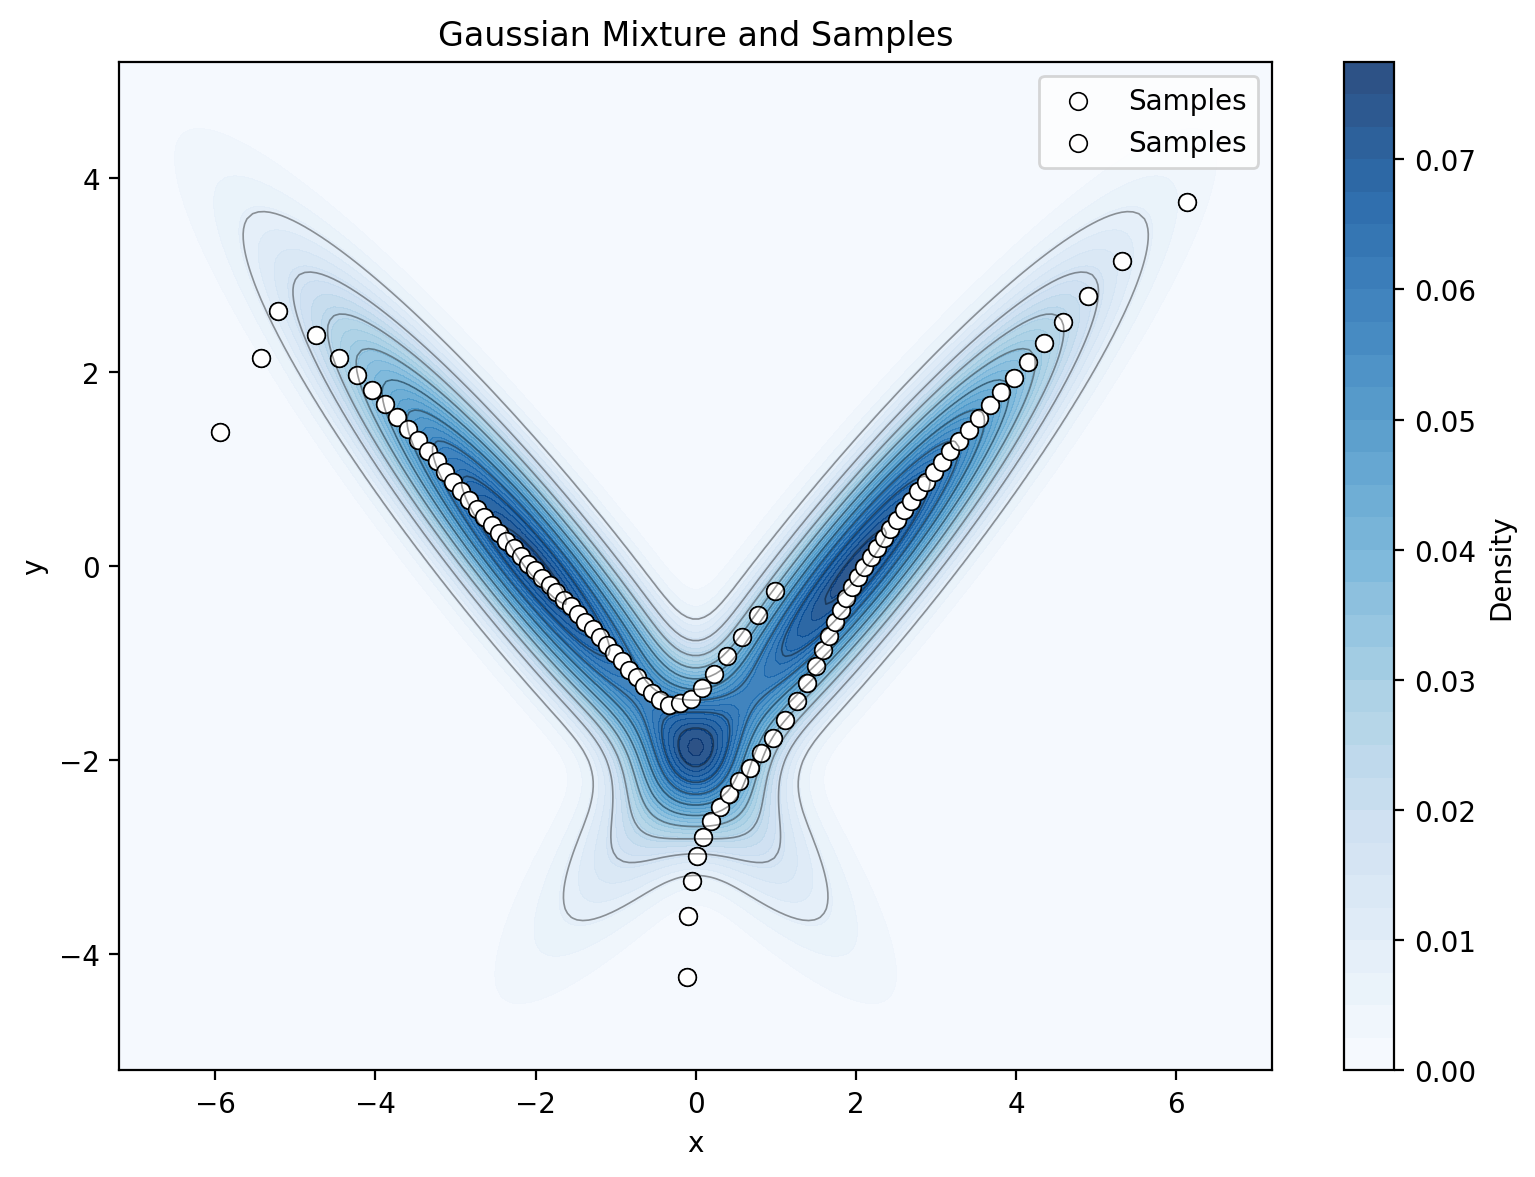
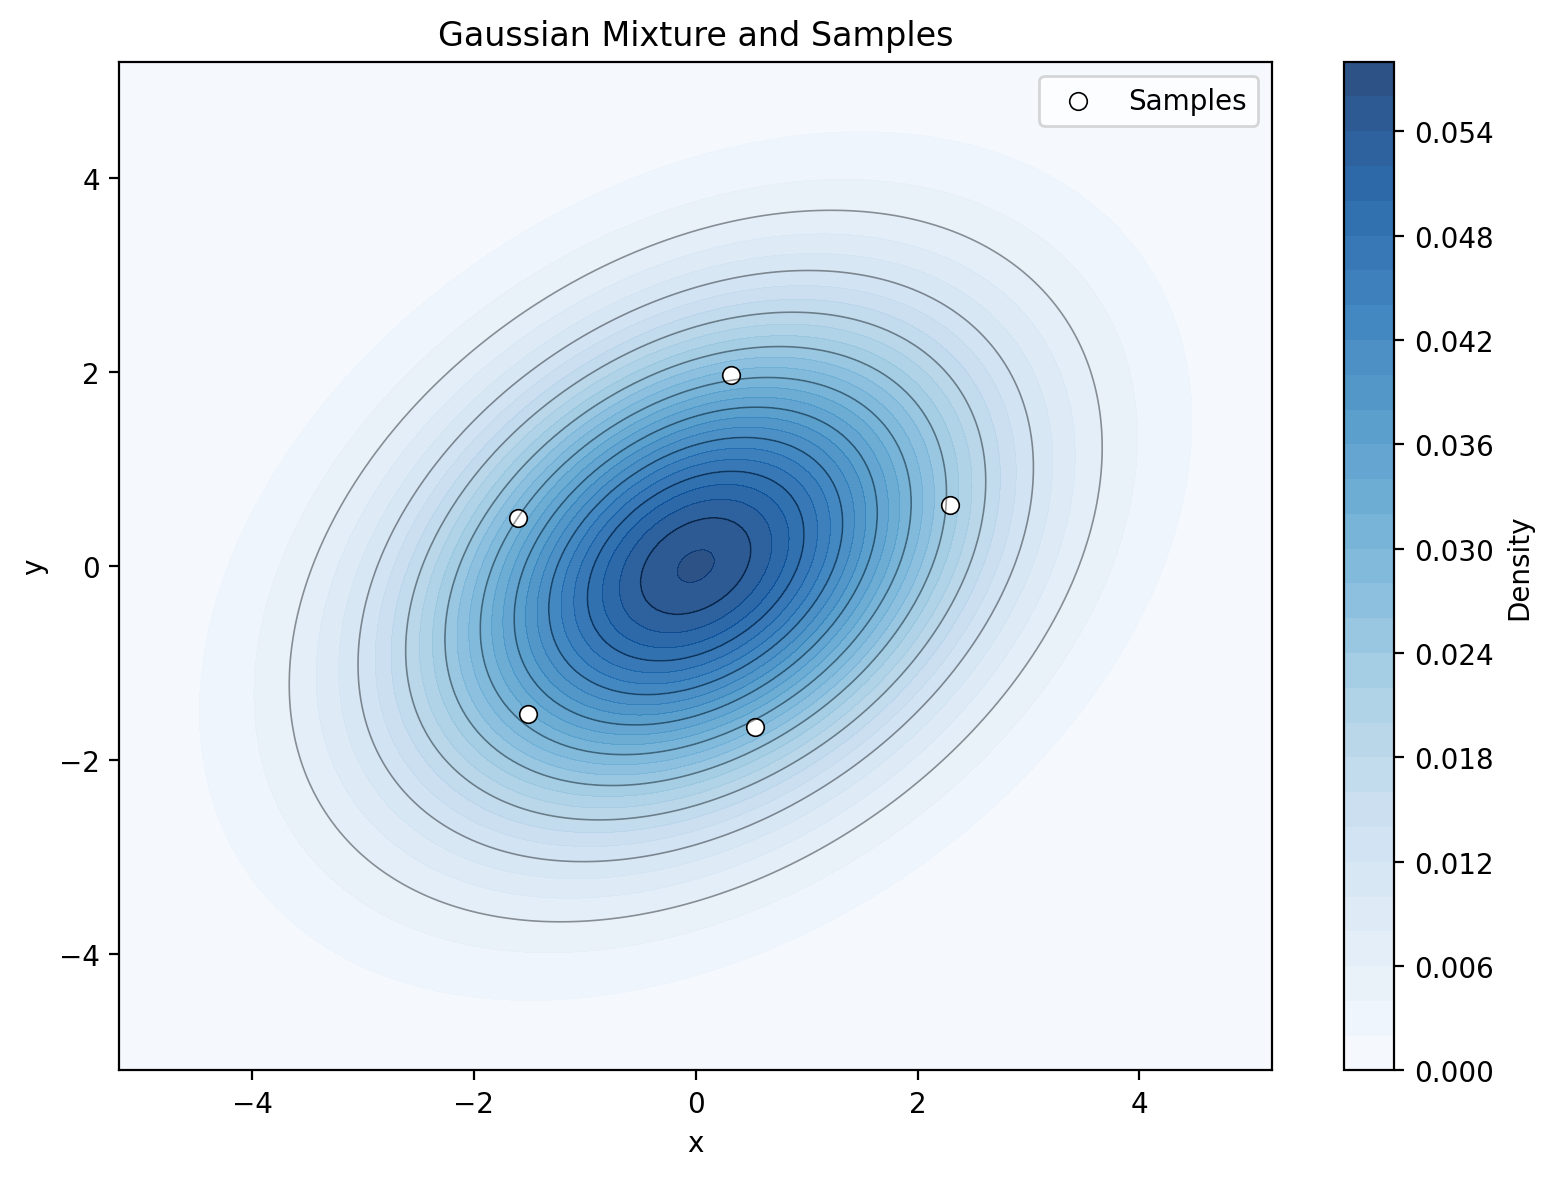
added jitter to mean sampling

diff --git a/examples/ut_example.py b/examples/ut_example.py
@@ -1,0 +1,119 @@
+import torch
+import matplotlib.pyplot as plt
+import numpy as np
+from matplotlib.patches import Ellipse
+
+from pcd_sampling_py.sampling_utils import reduce_gm, sample_ut
+
+
+"""
+Plot a 2D Gaussian Mixture with Unscented Transform sigma points
+and an ellipse of the moment-matched (reduced) Gaussian.
+"""
+
+
+def covariance_ellipse(mean, cov, n_std=2.0, **kwargs):
+    """Return a matplotlib Ellipse patch for a 2D Gaussian."""
+    vals, vecs = np.linalg.eigh(cov)
+    order = vals.argsort()[::-1]
+    vals, vecs = vals[order], vecs[:, order]
+    angle = np.degrees(np.arctan2(*vecs[:, 0][::-1]))
+    width, height = 2 * n_std * np.sqrt(vals)
+    return Ellipse(xy=mean, width=width, height=height, angle=angle, **kwargs)
+
+
+def plot_gm_and_ut(
+    weights: torch.Tensor,
+    means: torch.Tensor,
+    covariances: torch.Tensor,
+    grid_size: int = 200,
+    save_path: str | None = None,
+    show: bool = True,
+):
+    weights_f = weights.to(dtype=torch.float32)
+    means_f = means.to(dtype=torch.float32)
+    covs_f = covariances.to(dtype=torch.float32)
+
+    # --- Reduced Gaussian & UT sigma points ---
+    red_mean, red_cov = reduce_gm(weights_f, means_f, covs_f)
+    sigma_pts = sample_ut(red_mean, red_cov)  # (2n+1, 2)
+
+    # --- Grid for density ---
+    diag_vars = torch.diagonal(covs_f, dim1=-2, dim2=-1)
+    stds = torch.sqrt(diag_vars.clamp(min=1e-6))
+    mins = (means_f - 4 * stds).min(0).values
+    maxs = (means_f + 4 * stds).max(0).values
+
+    xs = torch.linspace(mins[0].item(), maxs[0].item(), grid_size)
+    ys = torch.linspace(mins[1].item(), maxs[1].item(), grid_size)
+    xx, yy = torch.meshgrid(xs, ys, indexing="ij")
+    grid = torch.stack([xx, yy], dim=-1).reshape(-1, 2)
+
+    log_probs = []
+    for w, m, c in zip(weights_f, means_f, covs_f):
+        mv = torch.distributions.MultivariateNormal(m, covariance_matrix=c)
+        log_probs.append(torch.log(w) + mv.log_prob(grid))
+    density = torch.exp(torch.logsumexp(torch.stack(log_probs), 0))
+    density = density.reshape(grid_size, grid_size).cpu().numpy()
+
+    xx_np = xx.cpu().numpy()
+    yy_np = yy.cpu().numpy()
+    sigma_np = sigma_pts.detach().cpu().numpy()
+    red_mean_np = red_mean.cpu().numpy()
+    red_cov_np = red_cov.cpu().numpy()
+
+    # --- Plot ---
+    fig, ax = plt.subplots(figsize=(8, 6))
+
+    contour = ax.contourf(xx_np, yy_np, density, levels=30, cmap="Blues", alpha=0.85)
+    ax.contour(xx_np, yy_np, density, levels=10, colors="black", linewidths=0.6, alpha=0.4)
+    plt.colorbar(contour, ax=ax, label="Density")
+
+    # Reduced-GM ellipse 2σ)
+    for n_std, alpha in [(2.0, 0.4)]:
+        ell = covariance_ellipse(
+            red_mean_np, red_cov_np, n_std=n_std,
+            edgecolor="black", facecolor="none",
+            linewidth=2.0, linestyle="--", alpha=alpha,
+            label=f"Reduced GM {int(n_std)}σ ellipse" if n_std == 2.0 else None,
+            zorder=3,
+        )
+        ax.add_patch(ell)
+
+    # Reduced-GM mean
+    # ax.scatter(*red_mean_np, c="darkorange", s=80, zorder=5,
+    #            edgecolors="black", linewidths=0.8, label="Reduced GM mean")
+
+    # UT sigma points
+    ax.scatter(sigma_np[:, 0], sigma_np[:, 1],
+               c="white", s=40, zorder=5,
+               edgecolors="black", linewidths=0.6, label="UT sigma points")
+
+    ax.set_xlabel("x")
+    ax.set_ylabel("y")
+    ax.set_title("Gaussian Mixture — Unscented Transform")
+    ax.legend(loc="upper right")
+    plt.tight_layout()
+
+    if save_path:
+        plt.savefig(save_path, dpi=200, bbox_inches="tight")
+        print(f"Saved to {save_path}")
+    if show:
+        plt.show()
+    plt.close()
+
+
+if __name__ == "__main__":
+    torch.set_default_device("cpu")
+
+    weights = torch.tensor([0.5, 0.5])
+    means = torch.tensor([[2.0, 0.0], [-2.0, 0.0]])
+    covariances = torch.tensor([[[3.0, 2.8], [2.8, 3.0]], [[3.0, -2.8], [-2.8, 3.0]]])
+    
+
+    with torch.no_grad():
+        plot_gm_and_ut(
+            weights, means, covariances,
+            save_path="examples/ut_example.png",
+            show=True,
+        )

diff --git a/examples/example.py b/examples/example.py
@@ -3,10 +3,11 @@ import time
 import torch
 import matplotlib.pyplot as plt
 
-from benchmarking.cvm import sample_unit_vectors
+# from benchmarking.cvm import sample_unit_vectors
 from pcd_sampling_py import sampler
 from pcd_sampling_py.models import PCDSamplerConfig
 from pcd_sampling_py.sampler import PCDSampler
+from pcd_sampling_py.sampling_utils import sample_ut
 
 """
 A simple example of a 2 D Gaussian mixture
@@ -14,18 +15,23 @@ A simple example of a 2 D Gaussian mixture
 
 
 def sample():
-    weights = torch.tensor([0.5, 0.5])
-    means = torch.tensor([[2.0, 0.0], [-2.0, 0.0]])
-    covariances = torch.tensor([[[3.0, 2.8], [2.8, 3.0]], [[3.0, -2.8], [-2.8, 3.0]]])
+    # weights = torch.tensor([0.5, 0.5])
+    # means = torch.tensor([[2.0, 0.0], [-2.0, 0.0]])
+    # covariances = torch.tensor([[[3.0, 2.8], [2.8, 3.0]], [[3.0, -2.8], [-2.8, 3.0]]])
+    
+    # weights = torch.tensor([0.5, 0.5])
+    # means = torch.tensor([[4.0, 0.0], [-4.0, 0.0]])
+    # covariances = torch.tensor([[[1.0, 0], [0., 1.0]], [[1.0, 0.], [0., 1.0]]])
+    
     # weights = torch.tensor([0.2, 0.2, 0.2, 0.2, 0.2])
     # means = torch.tensor([[0.0, 0.0], [0.0, 0.0], [1.0, 1.0], [-1.0, -1.0], [1.0, -1.0]])
     # covariances = torch.tensor([[[3.0, 2.8], [2.8, 3.0]], [[3.0, -2.8], [-2.8, 3.0]], [[3.0, 0.0], [0.0, 3.0]], [[3.0, 0.0], [0.0, 3.0]], [[3.0, 0.0], [0.0, 3.0]]])
-    # weights = torch.tensor([1.])
-    # means = torch.tensor([[0.0, 0.0]])
-    # covariances = torch.tensor([[[3.0, 2.8], [2.8, 3.0]]])
+    weights = torch.tensor([1.])
+    means = torch.tensor([[0.0, 0.0]])
+    covariances = torch.tensor([[[3.0, 1.0], [1.0, 3.0]]])
 
-    torch.manual_seed(10)
-    unit_vectors = sample_unit_vectors(10, 2, device=means.device, dtype=means.dtype).double()
+    torch.manual_seed(4)
+    # unit_vectors = sample_unit_vectors(10, 2, device=means.device, dtype=means.dtype).double()
 
     sum_time = 0.0
     last_samples = None
@@ -42,22 +48,24 @@ def sample():
     # )
     # sampler = PCDSampler(sampling_config)
 
-    for i in range(13):
+    for i in range(1):
         print(f"Sampling step {i}")
         start = time.time()
         sampling_config = PCDSamplerConfig(
-            number_samples=100,
+            number_samples=5,
             dim=2,
-            number_unit_vectors=2000,
-            steps=i,
+            number_unit_vectors=30,
+            steps=5,
             # threshold=1e-6,
             sorting=True,
             initial_sampling_method="mean",
-            unit_vectors_method="random",
+            unit_vectors_method="deterministic",
         )
         sampler = PCDSampler(sampling_config)
 
         X = sampler.sample(weights, means, covariances)
+        # X = sample_ut(mean=means[0], covariance=covariances[0])
+        
         last_samples = X
         diff = time.time() - start
         if i != 0:
@@ -68,9 +76,9 @@ def sample():
 
     # last_samples = sampler.sample(weights, means, covariances)
     
-    vectors = sampler.unit_vectors.detach().cpu().numpy()
-    for v in vectors:
-        plt.plot([0, v[0]], [0, v[1]], color="red", alpha=0.3, linewidth=0.8)
+    # vectors = sampler.unit_vectors.detach().cpu().numpy()
+    # for v in vectors:
+    #     plt.plot([0, v[0]], [0, v[1]], color="red", alpha=0.3, linewidth=0.8)
     if last_samples is not None:
         plot_gaussian_mixture_and_samples(
             weights,
@@ -79,8 +87,8 @@ def sample():
             last_samples,
             grid_size=200,
             save_paths=["examples/gm_samples.png", "examples/result.png"],
-            show=False,
-            vectors=vectors,
+            show=True,
+            # vectors=vectors,
         )
         print("Saved plots to examples/gm_samples.png and examples/result.png")
 
@@ -161,15 +169,7 @@ def plot_gaussian_mixture_and_samples(
     #     plt.plot([0, v[0]], [0, v[1]], color="red", alpha=0.3, linewidth=0.8)
 
     # Samples
-    plt.scatter(
-        samples_cpu[:, 0],
-        samples_cpu[:, 1],
-        c="white",
-        s=40,
-        label="Samples",
-        edgecolors="black",
-        linewidths=0.6,
-    )
+  
     # plt.scatter(
     #     means_cpu[:, 0],
     #     means_cpu[:, 1],

diff --git a/benchmarking/benchmark_norm_per_step.py b/benchmarking/benchmark_norm_per_step.py
@@ -11,7 +11,7 @@ from pcd_sampling_py.models import PCDSamplerConfig
 from pcd_sampling_py.sampler import PCDSampler
 
 
-def build_gaussian_mixture(dim: int = 2, components: int = 2, device: torch.device | None = None):
+def build_gaussian_mixture(dim: int = 10, components: int = 2, device: torch.device | None = None):
     device = device or torch.device("cpu")
     weights = torch.full((components,), 1.0 / components, device=device, dtype=torch.float32)
     means = torch.zeros((components, dim), device=device, dtype=torch.float32)
@@ -44,7 +44,8 @@ def run_benchmark(
         number_samples=number_samples,
         steps=steps,
         sorting=True,
-        threshold=1e-4,
+        # threshold=1e-4,
+        
     )
 
     sampler = PCDSampler(sampler_cfg)
@@ -64,7 +65,7 @@ def run_benchmark(
     ax.plot(range(len(norms)), norms.numpy(), marker="o", label="mean gain norm")
     ax.set_xlabel("Step")
     ax.set_ylabel("Mean gain norm")
-    ax.set_title("Gain norm per step (dim=2, components=2)")
+    ax.set_title("Gain norm per step (dim=2, components=10, samples=10, uv=40)")
     ax.grid(True, which="both", linestyle="--", alpha=0.6)
     ax.legend()
     plt.tight_layout()
@@ -79,9 +80,9 @@ def run_benchmark(
 
 def parse_args() -> argparse.Namespace:
     parser = argparse.ArgumentParser(description="Benchmark gain norm per step for 2D, 2-component GM.")
-    parser.add_argument("--samples", type=int, default=1000, help="Number of samples (L).")
+    parser.add_argument("--samples", type=int, default=10, help="Number of samples (L).")
     parser.add_argument("--steps", type=int, default=40, help="Number of optimization steps.")
-    parser.add_argument("--unit-vectors", type=int, default=1000, help="Number of unit vectors (K).")
+    parser.add_argument("--unit-vectors", type=int, default=30, help="Number of unit vectors (K).")
     parser.add_argument(
         "--device",
         type=str,

diff --git a/src/pcd_sampling_py/sampler.py b/src/pcd_sampling_py/sampler.py
@@ -72,6 +72,8 @@ class PCDSampler:
             self.create_unit_vectors_random()
         elif self.unit_vectors_method == "deterministic":
             self.create_unit_vectors_deterministic()
+        else:
+            raise ValueError("unit_vectors_method can be either 'random' or 'deterministic'")
 
     def create_unit_vectors_random(self):
         """
@@ -229,6 +231,10 @@ class PCDSampler:
             weights = torch.ones(n_means, device=means.device)
             indices = torch.multinomial(weights, n_samples, replacement=(n_samples > n_means))
             samples = means[indices]
+            
+            # Jitter to avoid local minima, when multiple samples are initialized at the same mean.
+            jitters = torch.randn_like(samples) * 1e-4
+            samples += jitters
             
             return samples
 